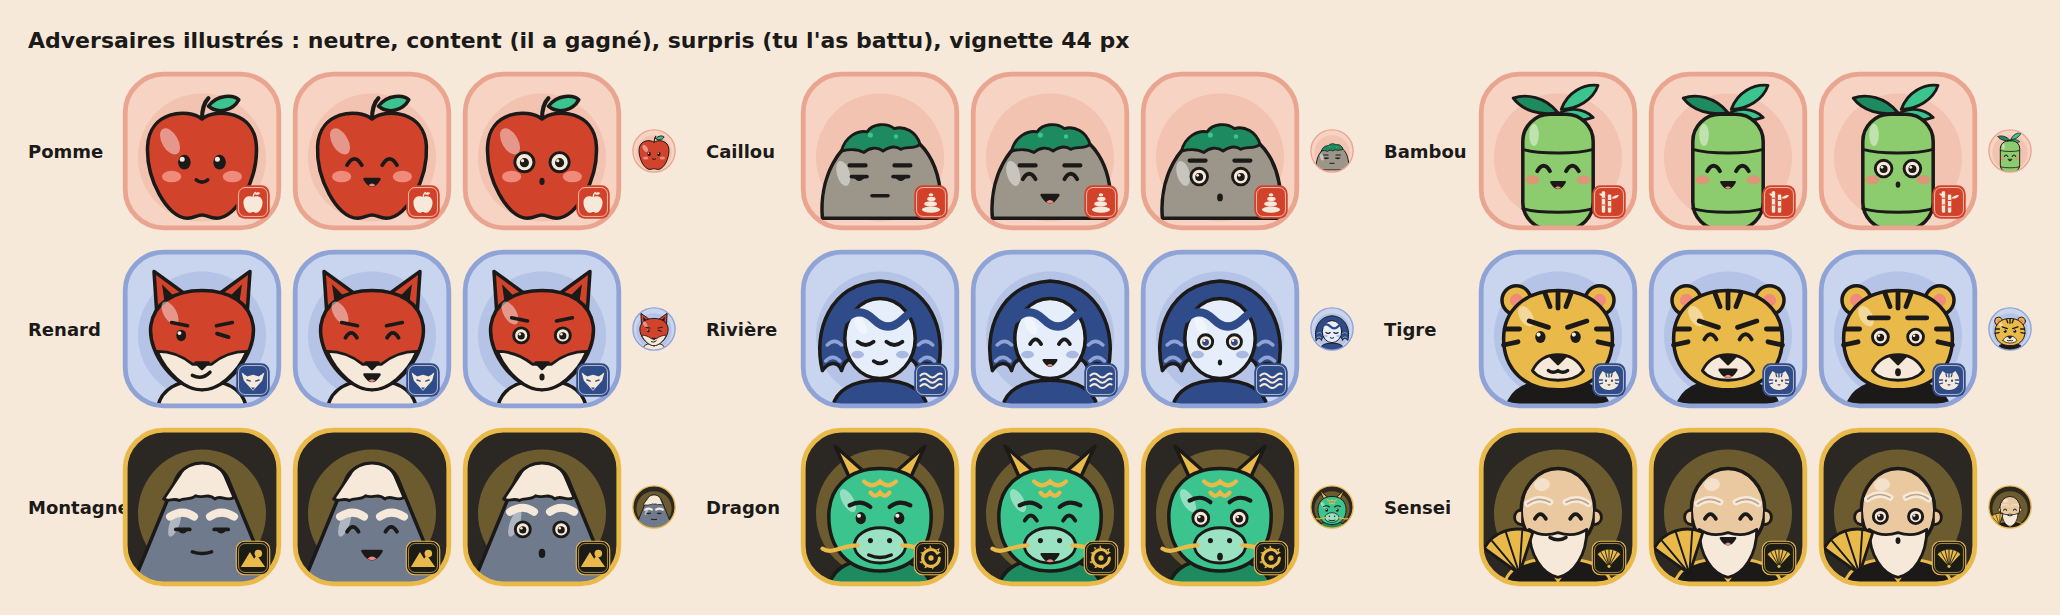
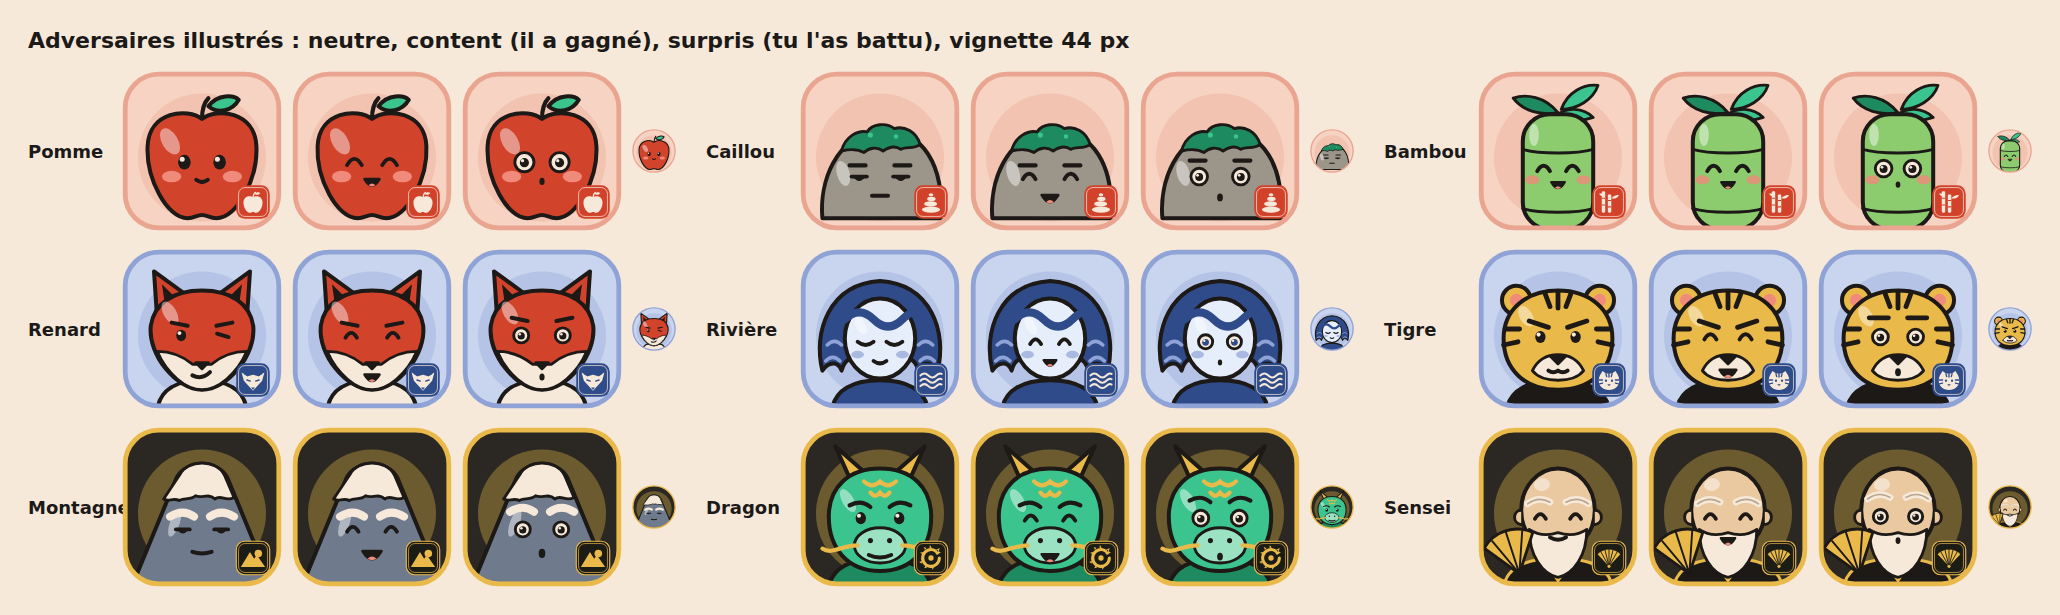
Portraits : trait de 2,5, sumi #1C1916, cadre à 22 % (charte personnages-go, #102)
Claude-Session: https://claude.ai/code/session_01MBh4E5pGWe9HRzjpTV2rVx

diff --git a/src/ui/Portrait.tsx b/src/ui/Portrait.tsx
@@ -9,9 +9,9 @@ import type { SceauId } from './sceaux';
 export type PortraitId = Exclude<SceauId, 'mochi'>;
 export type Humeur = 'neutre' | 'content' | 'surpris';
 
-const ENCRE = '#1B1A18', PAPIER = '#F7E9DA', OR = '#E9B949', VERMILLON = '#D2432C', INDIGO = '#2F4B8A';
+const ENCRE = '#1C1916', PAPIER = '#F7E9DA', OR = '#E9B949', VERMILLON = '#D2432C', INDIGO = '#2F4B8A';
 const JADE = '#3CC48E', JADE_F = '#1E8A5F', ROSE = "#F08A7A";
-const T = { stroke: ENCRE, strokeWidth: 2.2, strokeLinecap: 'round', strokeLinejoin: 'round' } as const;
+const T = { stroke: ENCRE, strokeWidth: 2.5, strokeLinecap: 'round', strokeLinejoin: 'round' } as const;
 
 export const NOMS: Record<PortraitId, string> = {
   pomme: 'Pomme', caillou: 'Caillou', bambou: 'Bambou', renard: 'Renard', riviere: 'Rivière',
@@ -216,7 +216,7 @@ export function Portrait({ id, humeur = 'neutre', taille = 44, rond = false, dec
   const clip = `portrait-clip-${id}-${rond ? 'r' : 'c'}`;
   const forme = rond
     ? <circle cx="50" cy="50" r="48" />
-    : <rect x="2" y="2" width="96" height="96" rx="24" />;
+    : <rect x="2" y="2" width="96" height="96" rx="21" />;
   return (
     <span className={['portrait', className].filter(Boolean).join(' ')} data-portrait={id} data-humeur={humeur}
       style={{ width: taille, height: taille }}>
@@ -231,7 +231,7 @@ export function Portrait({ id, humeur = 'neutre', taille = 44, rond = false, dec
         </g>
         {rond
           ? <circle cx="50" cy="50" r="48" fill="none" stroke={f.anneau} strokeWidth="3" />
-          : <rect x="2" y="2" width="96" height="96" rx="24" fill="none" stroke={f.anneau} strokeWidth="3" />}
+          : <rect x="2" y="2" width="96" height="96" rx="21" fill="none" stroke={f.anneau} strokeWidth="3" />}
       </svg>
       {signe && <span className="portrait-signature"><Sceau id={id} taille={Math.round(taille * 0.24)} /></span>}
     </span>
